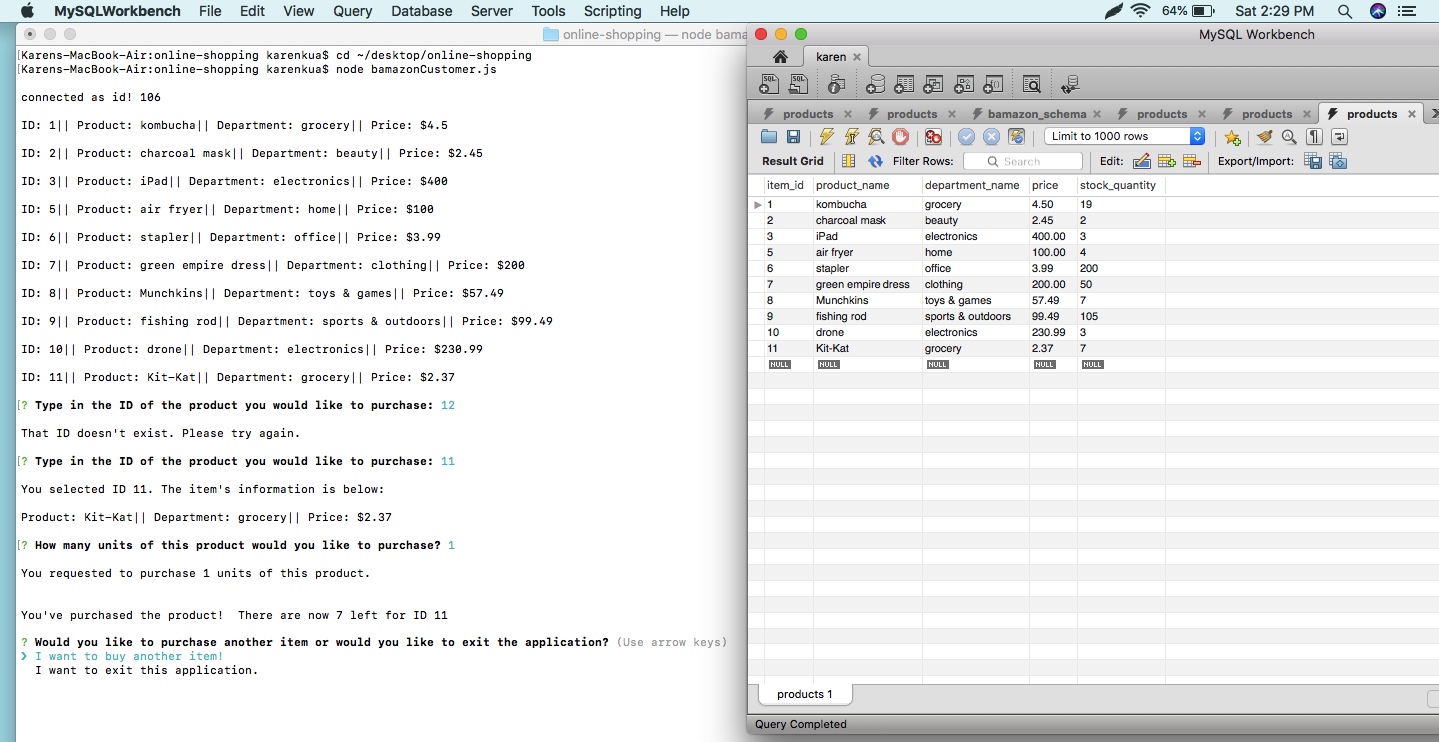
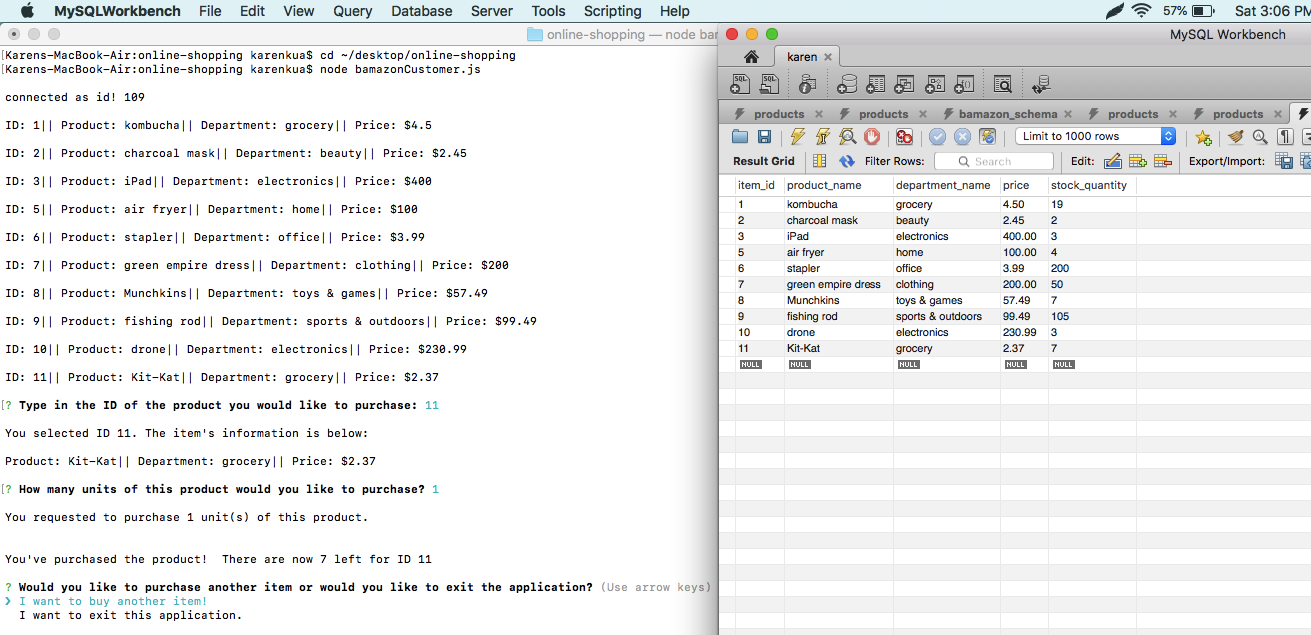
Updated README and also added more screenshots

Changed region(s): [[0.0, 0.0, 1.0, 1.0]]

diff --git a/bamazonCustomer.js b/bamazonCustomer.js
@@ -82,7 +82,7 @@ function requestPurchase(itemID, availableStock) {
             }
         }).then(function (answer) {
             var requestedUnits = answer.units;
-            console.log(`\nYou requested to purchase ${Math.floor(requestedUnits)} units of this product.\n`)
+            console.log(`\nYou requested to purchase ${Math.floor(requestedUnits)} unit(s) of this product.\n`)
             if (requestedUnits > availableStock) {
                 console.log(`There are not enough in stock!  Try again with another number.  There are only ${availableStock} in stock.\n`)
                 quitOrBuy();

diff --git a/README.md b/README.md
@@ -2,7 +2,7 @@
 
 ### Using the Application as a Customer
 
-1. Ensure you *git clone* the repository.  Use your terminal/bash to *cd* into the directory.  Then, to run the file, you will need to input *node bamazomCustomer.js*.
+1. Ensure you *git clone* the repository.  If an inventory has not been created yet, reference the *bamazon_schema.sql* file to create the database and table that will be used with MySQL.  This will contain the data that you will be querying.  Use your terminal/bash to *cd* into the directory.  Then, to run the file, you will need to input *node bamazonCustomer.js*.
 
 ![](https://azukimochi.github.io/online-shopping/images/screenshot_1.png)
 
@@ -29,6 +29,33 @@ If there are not enough units of the requested product in stock, then a message 
 If you choose to exit the application, *"Goodbye, come again!"* will be logged in your terminal/bash and your connection will end. 
 
 ![](https://azukimochi.github.io/online-shopping/images/screenshot_7.png)
+
+### Using the Application as a Manager
+
+1. Ensure you *git clone* the repository.  If an inventory has not been created yet, reference the *bamazon_schema.sql* file to create the database and table that will be used with MySQL.  This will contain the data that you will be querying.  Use your terminal/bash to *cd* into the directory.  Then, to run the file, you will need to input *node bamazonManager.js*.
+
+![](https://azukimochi.github.io/online-shopping/images/screenshot_8.png)
+
+![](https://azukimochi.github.io/online-shopping/images/screenshot_9.png)
+
+![](https://azukimochi.github.io/online-shopping/images/screenshot_10.png)
+
+![](https://azukimochi.github.io/online-shopping/images/screenshot_11.png)
+
+![](https://azukimochi.github.io/online-shopping/images/screenshot_12.png)
+
+![](https://azukimochi.github.io/online-shopping/images/screenshot_13.png)
+
+![](https://azukimochi.github.io/online-shopping/images/screenshot_14.png)
+
+![](https://azukimochi.github.io/online-shopping/images/screenshot_15.png)
+
+![](https://azukimochi.github.io/online-shopping/images/screenshot_16.png)
+
+![](https://azukimochi.github.io/online-shopping/images/screenshot_17.png)
+
+![](https://azukimochi.github.io/online-shopping/images/screenshot_18.png)
+
 
 
 
